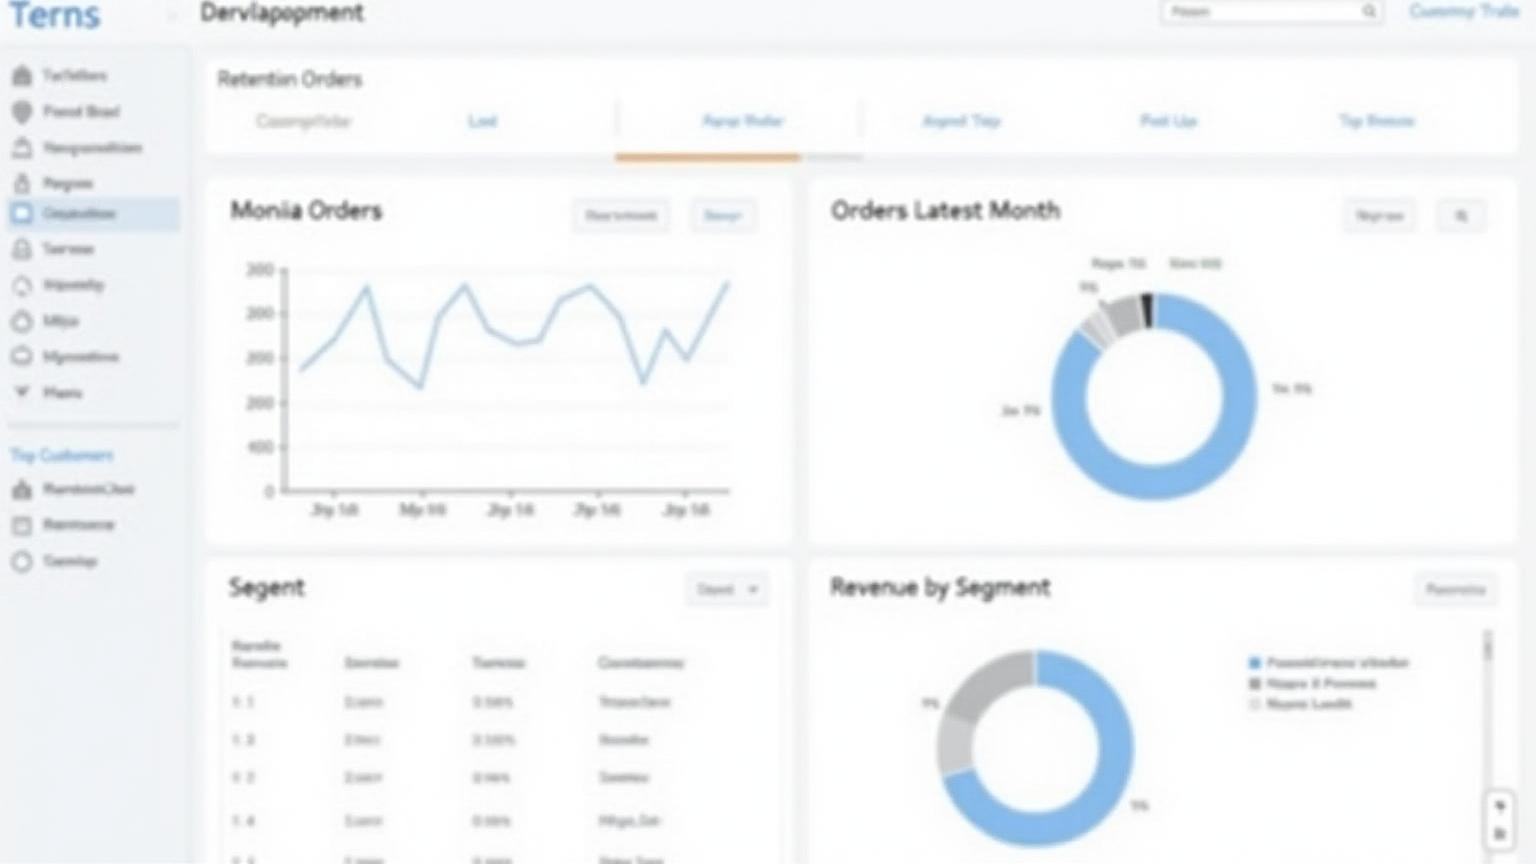
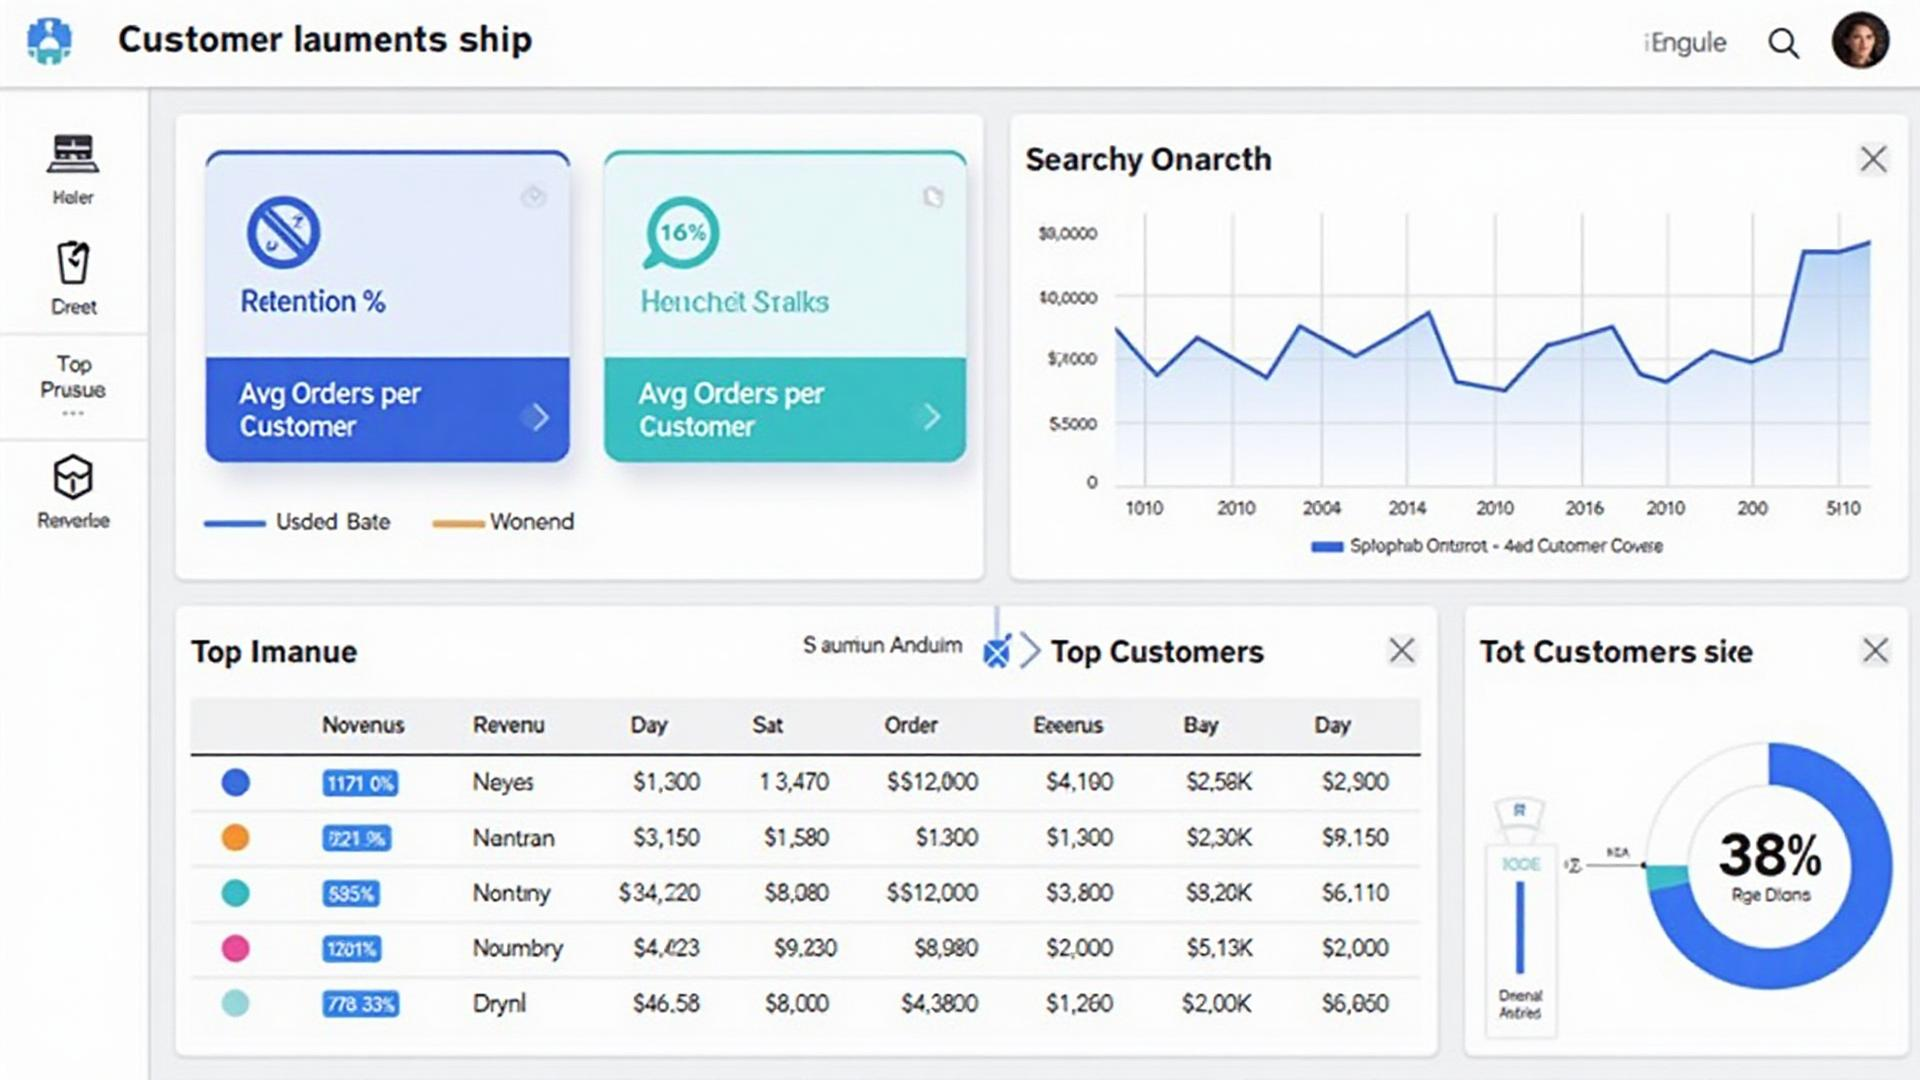
Fix: Regenerate blurry image
Regenerate the Customer Order Trends dashboard image to improve clarity and sharpness.

diff --git a/src/pages/projects/OrderTrends.tsx b/src/pages/projects/OrderTrends.tsx
@@ -142,7 +142,7 @@ const OrderTrends = () => {
       </Helmet>
 
       <section className="container mx-auto px-6 md:px-12 py-10">
-        <img src={orderTrendsHero} alt="Power BI dashboard mock: customer order trends and retention" className="w-full h-52 md:h-72 object-cover rounded-lg mb-6" loading="lazy" />
+        <img src={orderTrendsHero} alt="Power BI dashboard mock: customer order trends and retention" className="w-full h-56 md:h-80 object-contain md:object-cover rounded-lg mb-6" loading="eager" decoding="async" />
         <SectionHeader title="Customer Order Trends Dashboard" subtitle="Retention, cadence, and order value by customer segment" />
  
         <article className="prose prose-sm md:prose-base max-w-none dark:prose-invert">
